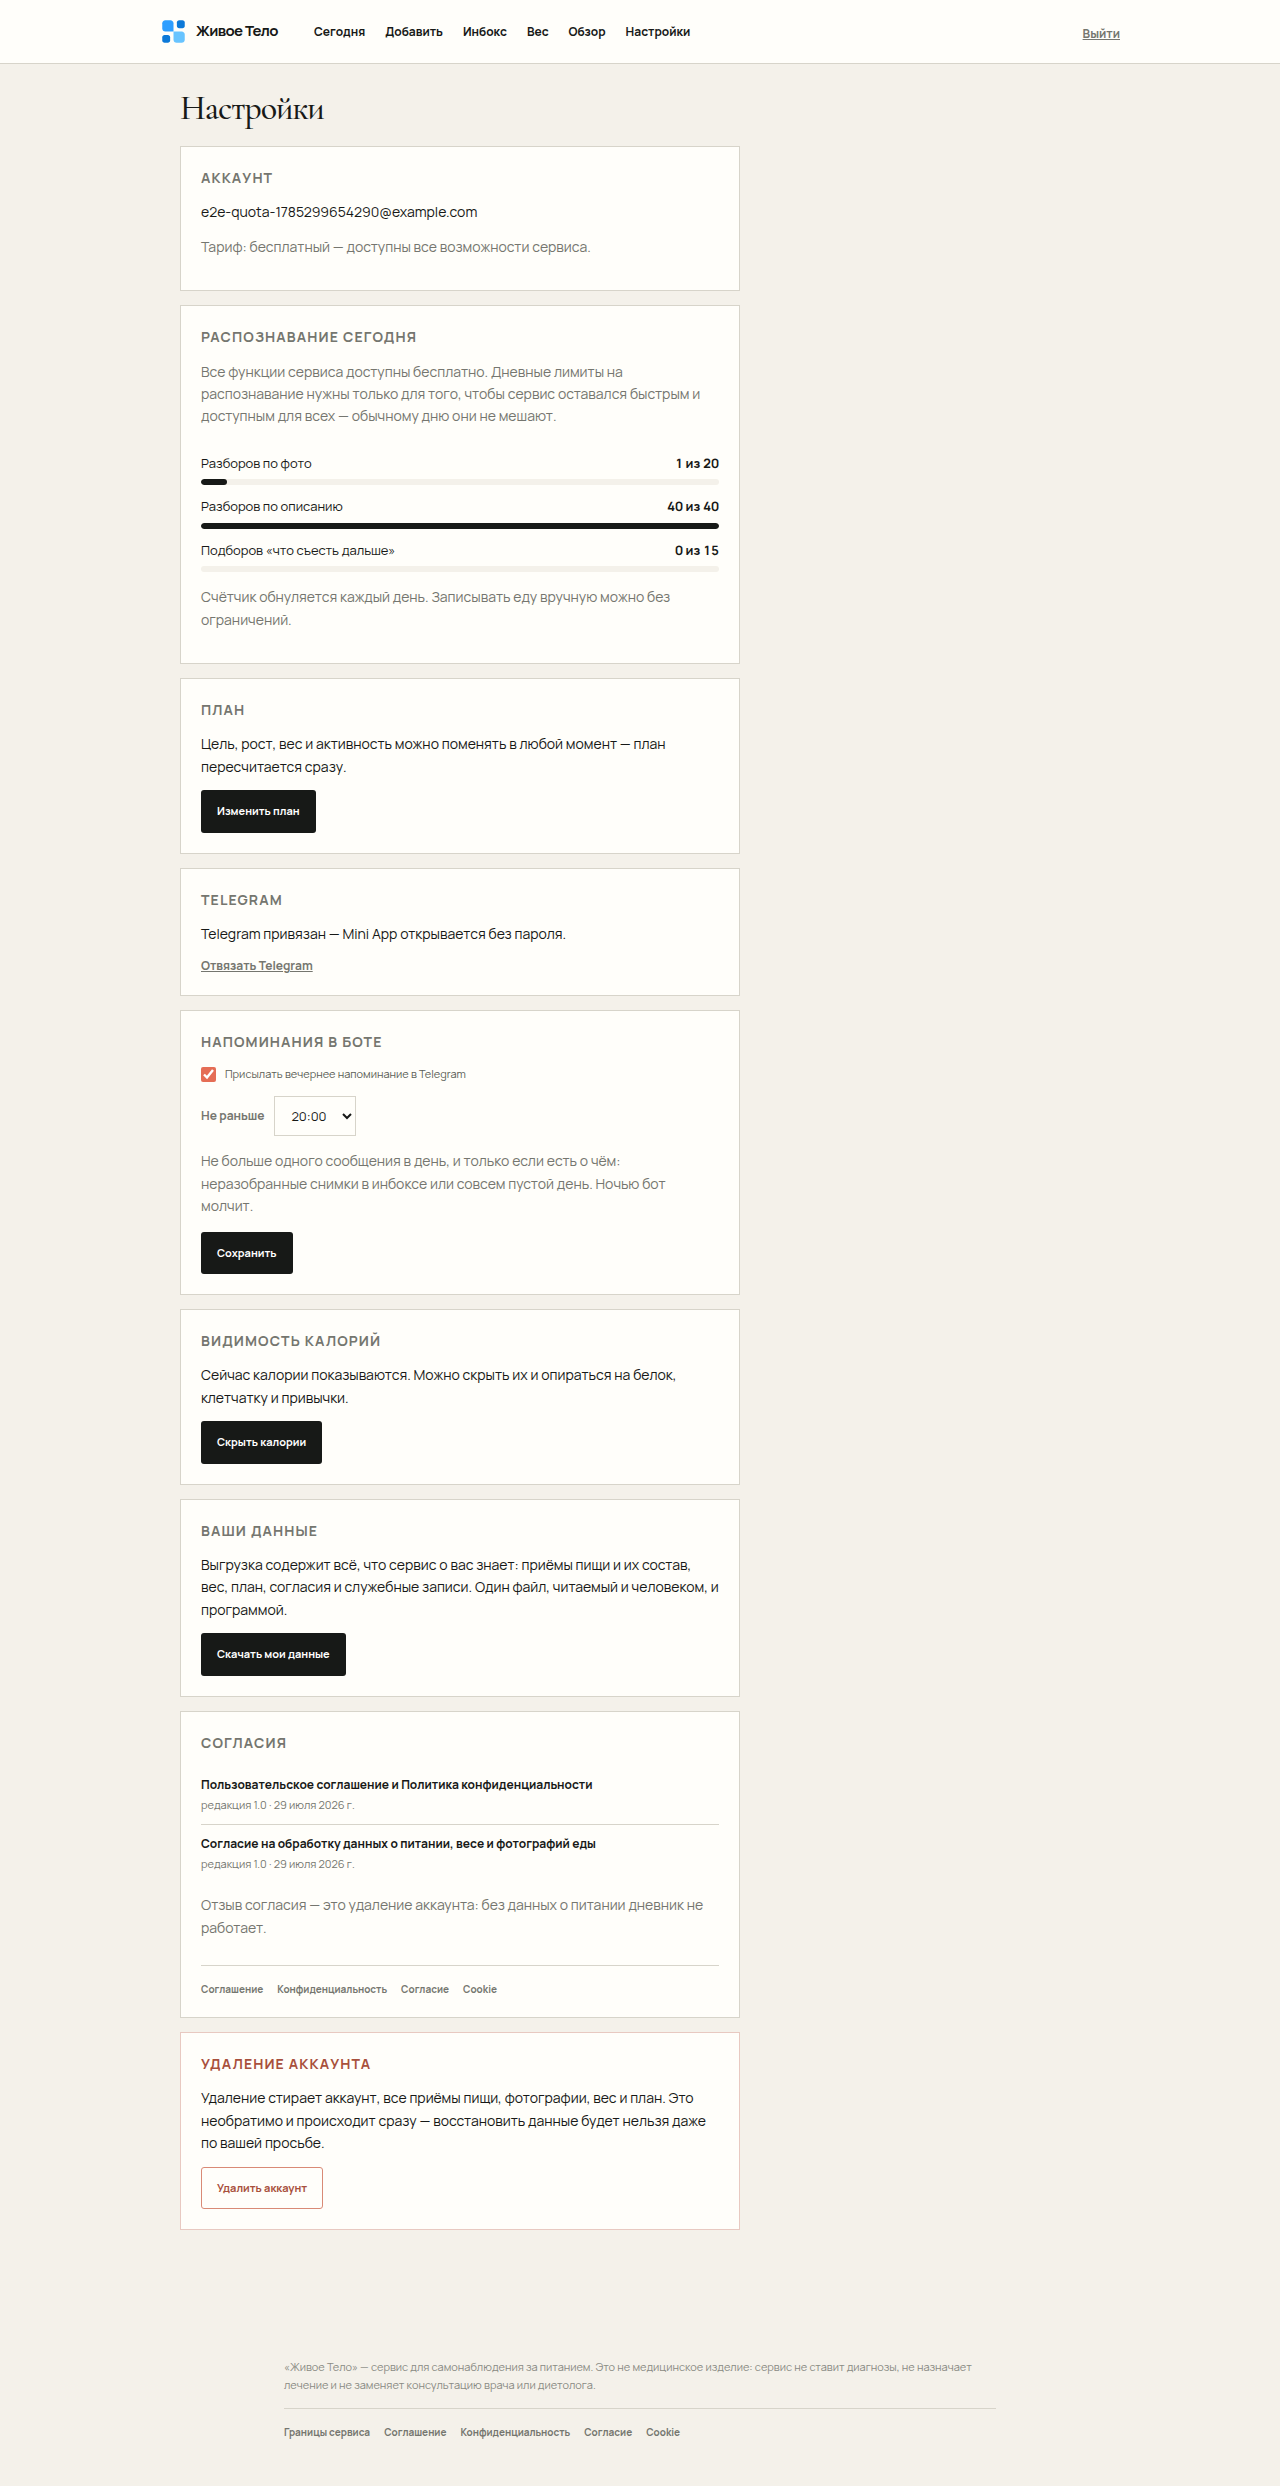
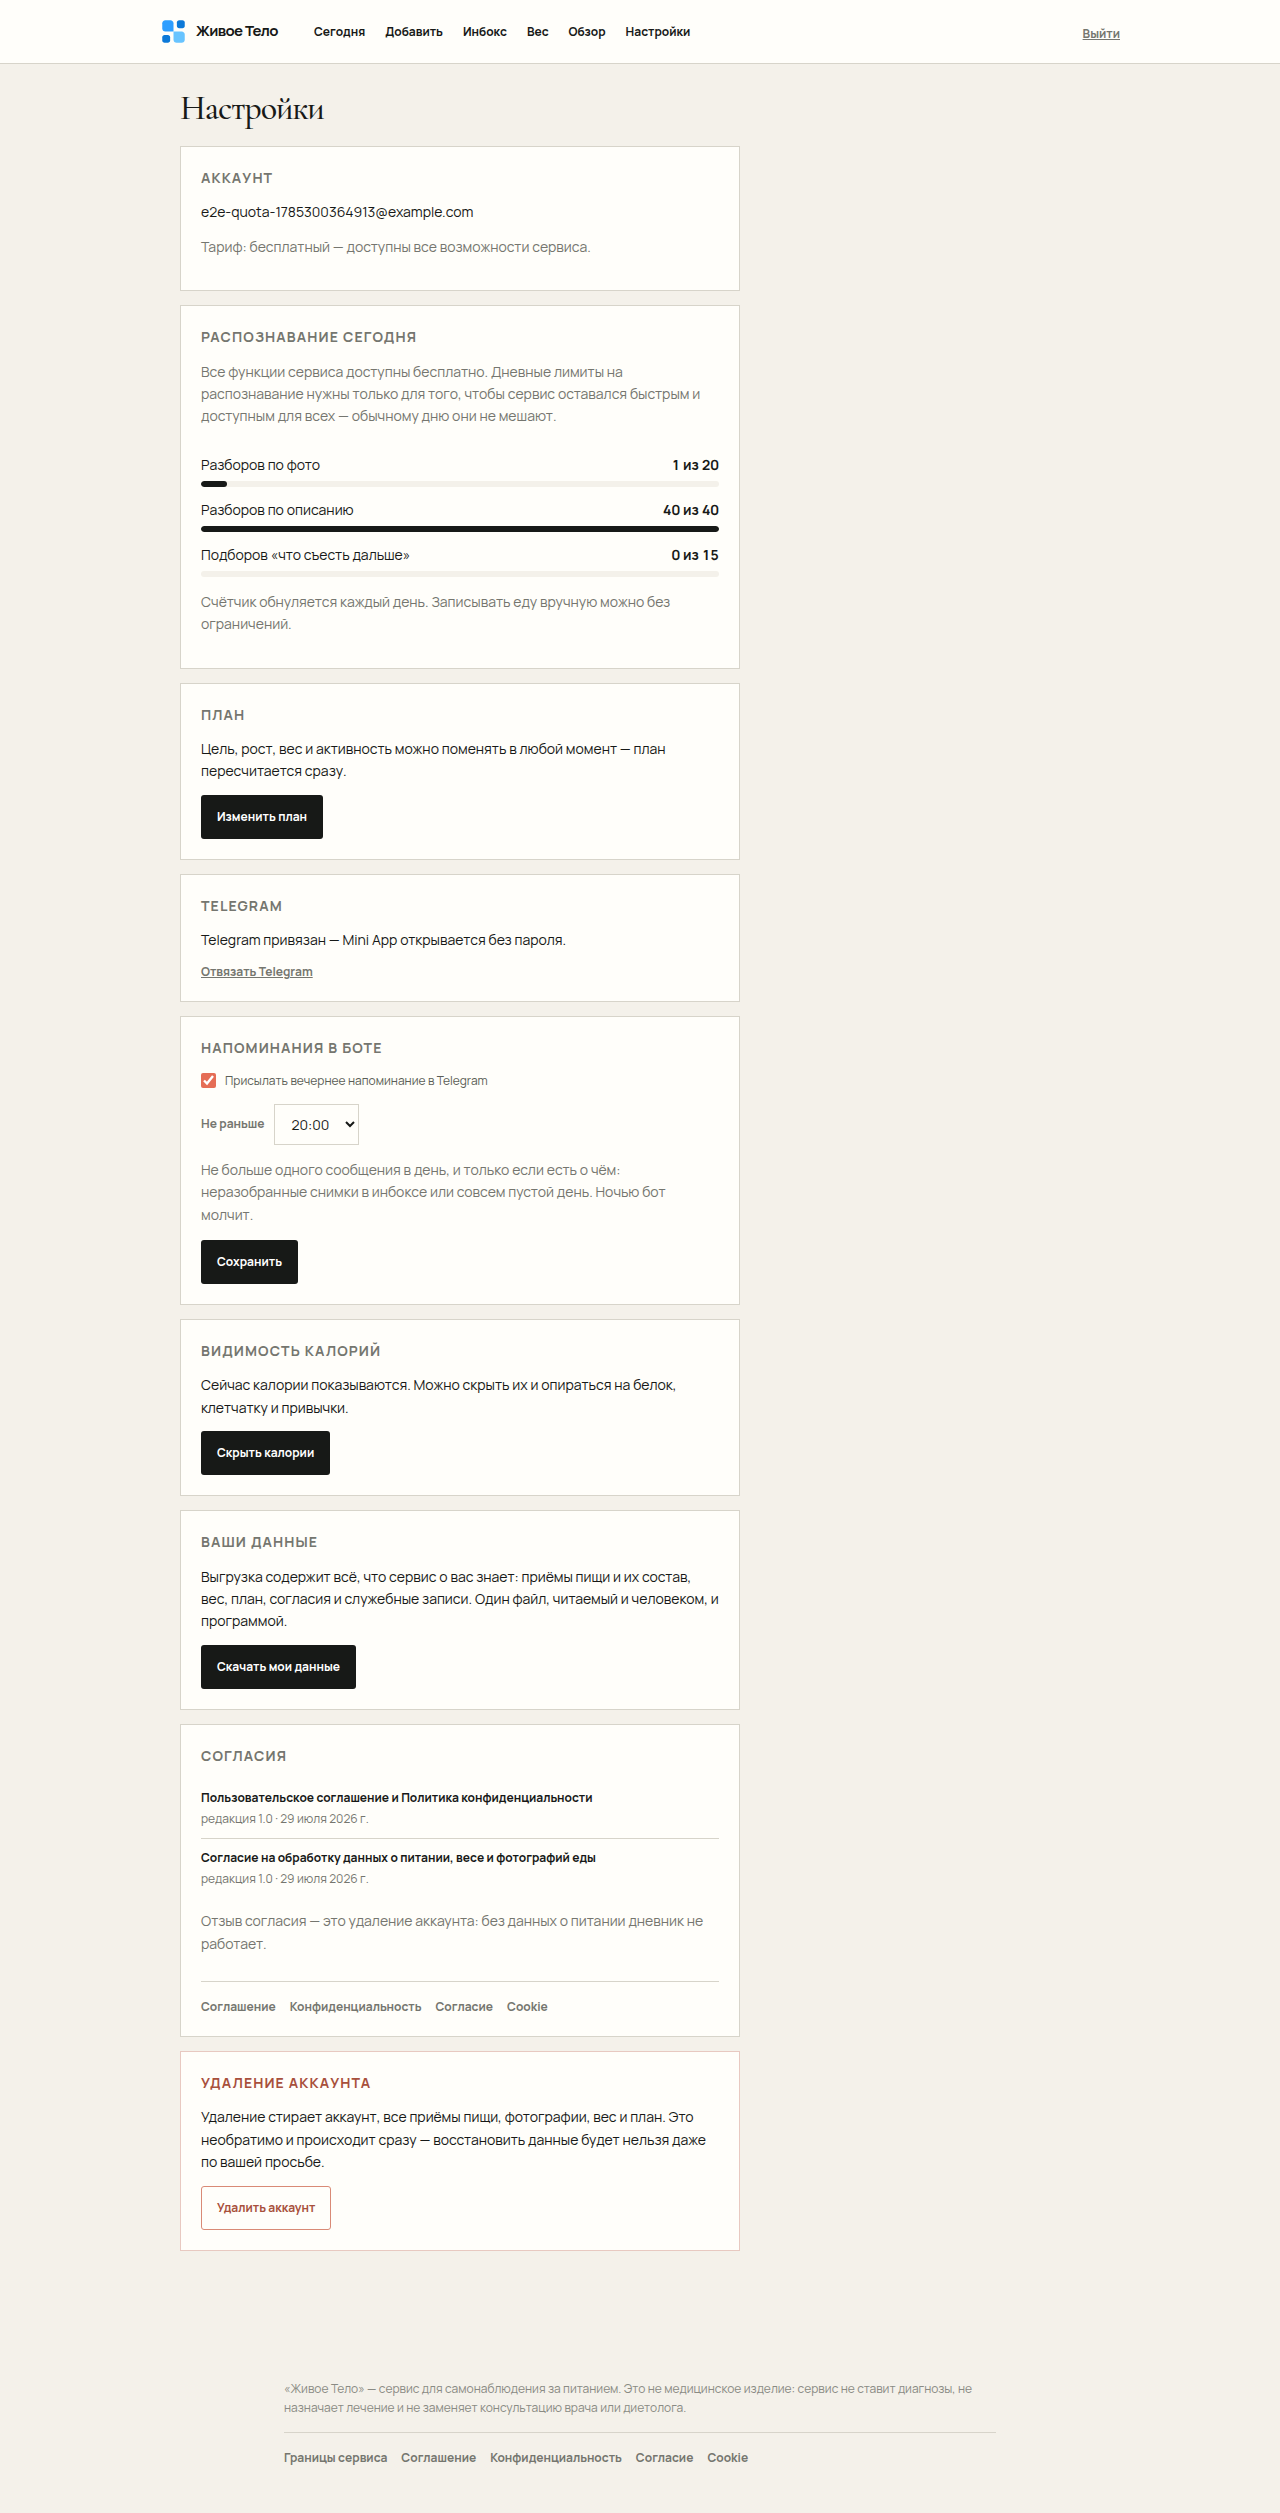
Перерисовать знак в цветах сайта
Прежний знак — четыре синих квадрата — остался от стартового шаблона, и на
тёплой бумаге рядом с коралловой кнопкой читался как чужая наклейка. Ни
одного синего пикселя на сайте больше нет.

Композиция сохранена, цвета взяты фирменные: бумага, лайм и коралл на тёмной
плашке. Плашка — не украшение: без неё знак наполовину исчезает на тёмной
вкладке браузера, а на шестнадцати пикселях рассыпается на отдельные точки.
Проверено рендером всех вариантов в трёх размерах на бумаге, на белом и на
тёмном фоне.

Тёмный прямоугольник с лаймом и кораллом — язык самого лендинга: так устроены
блок с цитатой и карточка совета. Знак читается как часть сайта.

Вариант на коралловой плашке отклонён: коралл на сайте означает действие, и
логотип того же цвета начинал бы спорить с кнопками.

Заодно закоммичены скриншоты, перерисованные после смены шкалы шрифтов.

Claude-Session: https://claude.ai/code/session_01FfWCYDAfY1bLqGNy6tGekT

diff --git a/app/logo.tsx b/app/logo.tsx
@@ -1,39 +1,33 @@
 /**
- * Знак сервиса. Раньше в шапке и подвале стояла буква «Ж» — монограмма
- * заголовочным шрифтом; теперь тот же знак, что и в фавиконе, чтобы вкладка
- * браузера и страница показывали одно и то же.
+ * Знак сервиса — в шапке, в подвале и в фавиконе.
  *
- * Разметка вставляется прямо в страницу, а не через <img src="/favicon.svg">:
+ * Тёмная плашка выбрана не для красоты: без неё знак наполовину исчезает на
+ * тёмной вкладке браузера, а на шестнадцати пикселях рассыпается на точки.
+ * Плашка держит контраст на любом фоне, а внутри — фирменные цвета: бумага,
+ * лайм и коралл. Так же устроены чёрные блоки на лендинге, поэтому знак
+ * читается как часть сайта, а не как наклейка на нём.
+ *
+ * Цвета записаны значениями, а не переменными: этот же файл дублируется в
+ * public/favicon.svg, который отдаётся браузеру отдельно и до CSS не
+ * добирается. При смене знака менять оба.
+ *
+ * Разметка вставляется в страницу, а не подключается картинкой по ссылке:
  * так знак не требует отдельного запроса, не мигает при загрузке и не зависит
- * от кэша браузера на favicon.
- *
- * Тот же файл лежит в public/favicon.svg — при замене знака менять оба.
+ * от того, как браузер закэшировал favicon.
  */
 export function Logo({ size = 27 }: { size?: number }) {
   return <svg
     width={size}
     height={size}
     viewBox="0 0 24 24"
-    fill="none"
     xmlns="http://www.w3.org/2000/svg"
     role="img"
     aria-label="Живое Тело"
   >
-    <path
-      d="M22 19.2727C22 20.779 20.779 22 19.2727 22H14.7273C13.221 22 12 20.779 12 19.2727V12H19.2727C20.779 12 22 13.221 22 14.7273V19.2727Z"
-      fill="#68C4FF"
-    />
-    <path
-      d="M20 2C21.1046 2 22 2.89543 22 4V7C22 8.10457 21.1046 9 20 9H17C15.8954 9 15 8.10457 15 7V4C15 2.89543 15.8954 2 17 2H20Z"
-      fill="#0C79D8"
-    />
-    <path
-      d="M7 15C8.10457 15 9 15.8954 9 17V20C9 21.1046 8.10457 22 7 22H4C2.89543 22 2 21.1046 2 20V17C2 15.8954 2.89543 15 4 15H7Z"
-      fill="#0C79D8"
-    />
-    <path
-      d="M12 12H4.72727C3.22104 12 2 10.779 2 9.27273V4.72727C2 3.22104 3.22104 2 4.72727 2H9.27273C10.779 2 12 3.22104 12 4.72727V12Z"
-      fill="#2E9EFF"
-    />
+    <rect width="24" height="24" rx="6.5" fill="#171917" />
+    <rect x="5" y="5" width="7" height="7" rx="1.9" fill="#f4f1ea" />
+    <rect x="14.1" y="5" width="4.9" height="4.9" rx="1.4" fill="#d9e49c" />
+    <rect x="5" y="14.1" width="4.9" height="4.9" rx="1.4" fill="#d9e49c" />
+    <rect x="12" y="12" width="7" height="7" rx="1.9" fill="#e56d55" />
   </svg>;
 }
